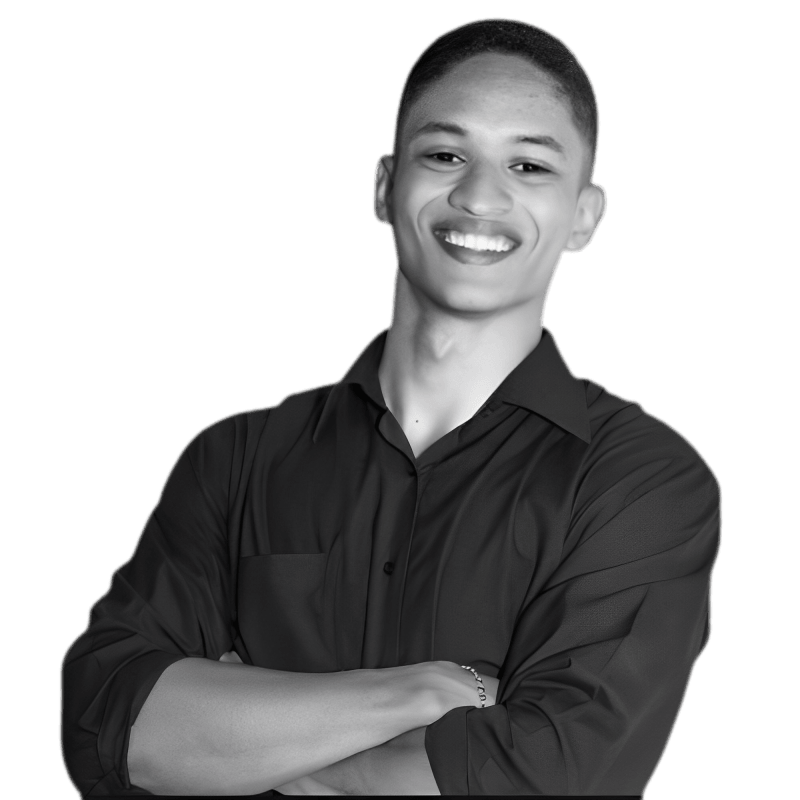
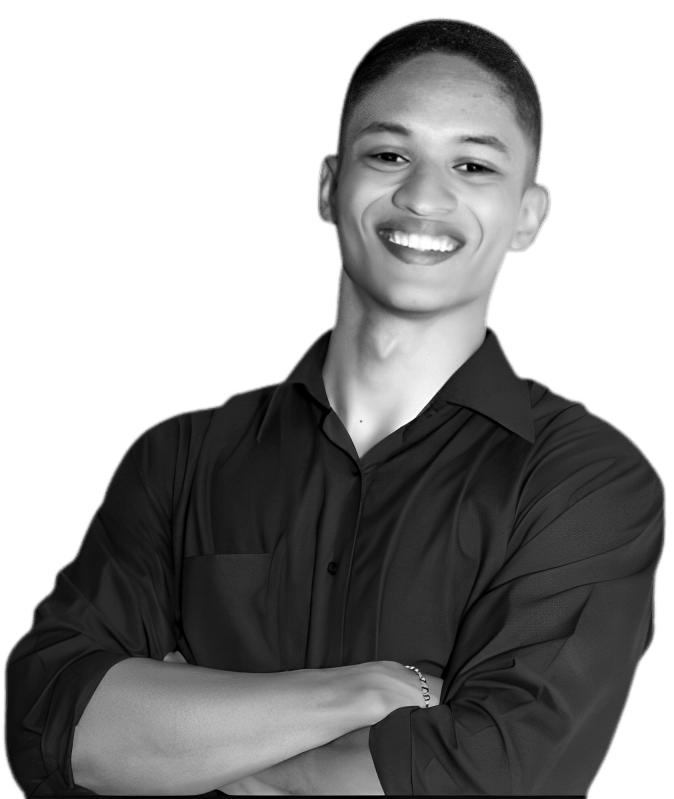
update

diff --git a/index.html b/index.html
@@ -69,9 +69,12 @@
             <div id="particles"></div>
             <!--Social Media Links-->
             <div class="social-media-links">
-                <a href="https://www.linkedin.com/in/joao-pedro-pereira-lima" target="_blank"><img src="images/linkedin logo.png" class="social-media" alt="linkedin-logo"></a>
-                <a href="https://api.whatsapp.com/send?phone=5594992927891" target="_blank"><img src="images/whatsapp logo.png" class="social-media" alt="whatsapp-logo"></a>
-                <a href="https://www.instagram.com/joaopedrosh_" target="_blank"><img src="images/instagram logo.png" class="social-media" alt="instagram-logo"></a>
+                <a href="https://www.linkedin.com/in/joao-pedro-pereira-lima" target="_blank"><img
+                        src="images/linkedin logo.png" class="social-media" alt="linkedin-logo"></a>
+                <a href="https://api.whatsapp.com/send?phone=5594992927891" target="_blank"><img
+                        src="images/whatsapp logo.png" class="social-media" alt="whatsapp-logo"></a>
+                <a href="https://www.instagram.com/joaopedrosh_" target="_blank"><img src="images/instagram logo.png"
+                        class="social-media" alt="instagram-logo"></a>
             </div>
             <!--Social Media Links end-->
             <div class="header-content">
@@ -84,16 +87,13 @@
                         <span class="slash">|</span>
                     </div>
                     <div class="contact">
-                        <a href="Mailto:#"><img src="images/mail.png" alt="email-pic"
-                                class="contactpic"></a><!--Your email Id write in place of "#"-->
-                        <a href="Tel:94992927891"><img src="images/call.png" alt="phone-pic"
-                                class="contactpic"></a><!--Your telephone number Id write in place of "#"-->
+                        <a href="Tel:94992927891"><img src="images/call.png" alt="phone-pic" class="contactpic"></a>
                     </div>
                 </div>
             </div>
             <!--header image-->
             <div class="header-image">
-                <img src="images/man.png" class="img-fluid" width="600px" alt="logo">
+                <img src="images/man.png" style="max-width: 850px;" alt="logo">
             </div>
             <!--header image end-->
         </div>
